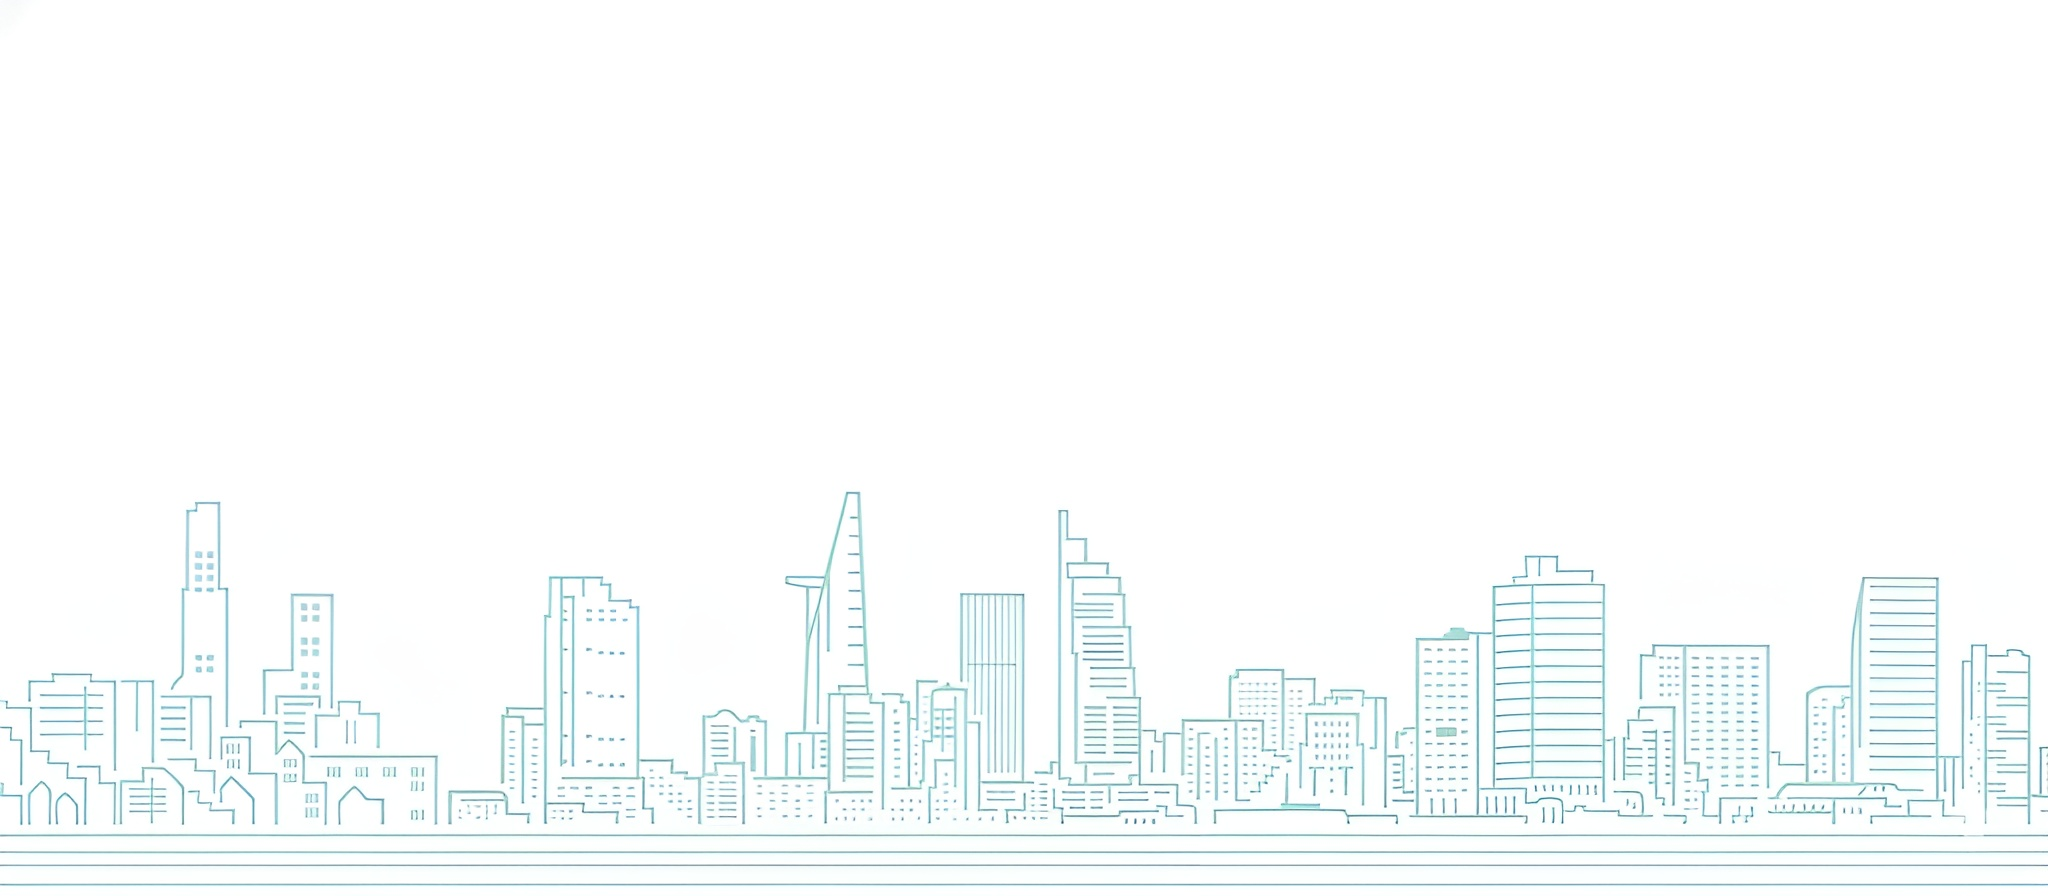
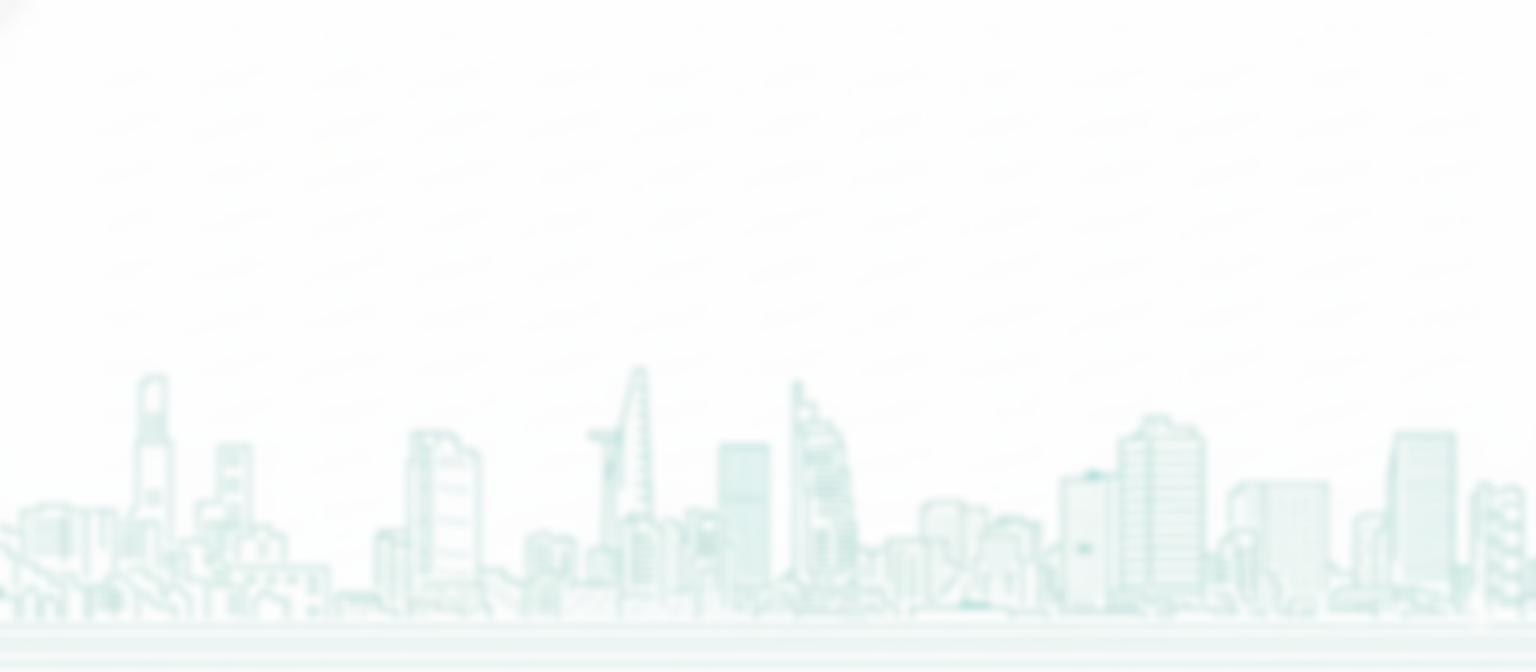
update code

Changed region(s): [[0.0, 0.5938, 1.0, 0.9688], [0.4062, 0.5625, 0.4375, 0.625], [0.0938, 0.625, 0.125, 0.6562]]

diff --git a/src/app/layouts/auth-layout/auth-layout.component.scss b/src/app/layouts/auth-layout/auth-layout.component.scss
@@ -3,7 +3,8 @@
   width: 100vw;
   height: 100vh;
   position: relative;
-  overflow: hidden; /* Master scroll control */
+  overflow: hidden;
+  background-color: var(--gray-100); /* Fallback color */
 }
 
 /* ==========================================================================
@@ -15,15 +16,10 @@
   z-index: 0;
   
   /* PERFORMANCE HINTS: */
-  /* 1. Isolate layout/paint from the rest of the app */
   contain: strict; 
-  /* 2. Force onto GPU layer */
-  transform: translateZ(0);
-  /* 3. Prevent any mouse events from causing recalc */
+  transform: translateZ(0); /* Force GPU layer */
   pointer-events: none;
-  
-  /* Fix for white edges on blur in some browsers by scaling slightly */
-  transform: scale(1.02); 
+  overflow: hidden;
 }
 
 .bg-image {
@@ -33,19 +29,20 @@
   object-position: center;
   display: block;
   
-  /* THE EXPENSIVE BLUR (Hardware Accelerated here) */
-  filter: blur(8px); 
+  /* OPTIMIZATION: Scale slightly to hide any potential edge artifacts */
+  transform: scale(1.02);
+  will-change: transform, opacity;
+
+  /* Pre-blurred image used, so no CSS filter needed here */
   
-  /* Tell browser this doesn't change often */
-  will-change: transform; 
+  /* Optional: Fade in image to mask loading jank */
+  animation: imageFadeIn 0.8s ease-out forwards;
 }
 
 .bg-overlay {
   position: absolute;
   inset: 0;
-  /* The static tint */
-  background-color: rgba(255, 255, 255, 0.1); 
-  /* Force overlay to stick to GPU layer too */
+  background-color: rgba(255, 255, 255, 0.2); 
   transform: translateZ(0); 
 }
 
@@ -54,7 +51,7 @@
    ========================================================================== */
 .auth-container {
   position: relative;
-  z-index: 1; /* Floating above the fixed background */
+  z-index: 1;
   width: 100%;
   height: 100%;
   
@@ -63,28 +60,21 @@
   align-items: center;
   padding: var(--spacing-lg);
   
-  /* Allow content scrolling if window is too short */
   overflow-y: auto; 
   overflow-x: hidden;
-  
-  /* Smooth scrolling */
   -webkit-overflow-scrolling: touch;
 }
 
 .auth-card-wrapper {
-  /* View Transition Optimization */
   view-transition-name: auth-card; 
   
   width: 100%;
   max-width: 420px;
   
-  /* --- NO BLUR HERE --- */
-  /* High opacity white for best readability and rendering speed */
-  background: rgba(255, 255, 255, 0.94); 
+  /* High opacity for text readability and rendering speed */
+  background: rgba(255, 255, 255, 0.6); 
   
   border-radius: var(--border-radius-lg);
-  
-  /* Static shadow, no spread expansion */
   box-shadow: 0 15px 35px rgba(0, 0, 0, 0.12);
   border: 1px solid rgba(255, 255, 255, 0.6);
   
@@ -92,7 +82,6 @@
   display: flex;
   flex-direction: column;
   
-  /* Isolate card repaints from container */
   contain: content; 
   will-change: transform, opacity;
 }
@@ -107,6 +96,8 @@
     object-fit: contain;
     margin-bottom: clamp(16px, 4vw, 24px);
     aspect-ratio: 1 / 1;
+    /* Prevent layout shift */
+    display: inline-block;
   }
 
   h2 {
@@ -129,18 +120,15 @@
    3. MOBILE OPTIMIZATIONS
    ========================================================================== */
 @media (max-width: 992px) {
-  /* Disable the background layer entirely on mobile to save battery/perf */
-  .auth-background-layer {
-    display: none !important;
-  }
+  /* Enabled background image on mobile (removed display: none) */
   
   :host {
-    background-color: var(--white);
+    background-color: transparent; /* Let image show through */
   }
 
   .auth-container {
     padding: 0;
-    align-items: flex-start; /* Top align for mobile scrolling */
+    align-items: flex-start; 
   }
 
   .auth-card-wrapper {
@@ -149,7 +137,11 @@
     border-radius: 0;
     border: none;
     box-shadow: none;
-    background: transparent;
+    
+    /* Removed 'background: transparent' so it uses the rgba(255,255,255,0.6) from desktop.
+       This ensures readability over the background image. 
+       If you want it clearer/more opaque on mobile, override it here. */
+       
     justify-content: center; 
     padding: clamp(20px, 5vw, 32px);
   }
@@ -174,4 +166,9 @@
 
 ::view-transition-new(auth-card) {
   animation: none; 
+}
+
+@keyframes imageFadeIn {
+  from { opacity: 0; }
+  to { opacity: 1; }
 }

diff --git a/src/app/login/login.component.ts b/src/app/login/login.component.ts
@@ -1,4 +1,4 @@
-import { Component } from '@angular/core';
+import { Component, ChangeDetectionStrategy, ChangeDetectorRef, inject } from '@angular/core';
 import { FormsModule } from '@angular/forms';
 import { CommonModule, NgClass } from '@angular/common';
 import { AuthService } from '../services/auth.service';
@@ -17,9 +17,12 @@ import { ConfirmationModalComponent } from '../components/confirmation-modal/con
     RouterLink
   ],
   templateUrl: './login.component.html',
-  styleUrl: './login.component.scss'
+  styleUrl: './login.component.scss',
+  changeDetection: ChangeDetectionStrategy.OnPush // <--- 1. Enable OnPush
 })
 export class LoginComponent {
+  // Inject ChangeDetectorRef
+  private cd = inject(ChangeDetectorRef); 
 
   public isLoading = false;
   public credentials = {
@@ -41,12 +44,14 @@ export class LoginComponent {
   onSubmit() {
     if (this.isLoading) return;
     this.isLoading = true;
+    // No need to markForCheck here because the event (submit) triggers detection automatically
 
     this.authService.login(this.credentials).subscribe({
       next: (response) => {
         this.isLoading = false;
         this.toastService.showSuccess('Đăng nhập thành công!');
         this.router.navigate(['/app']);
+        this.cd.markForCheck(); // <--- 2. Update view after async
       },
       error: (err: any) => {
         this.isLoading = false;
@@ -58,12 +63,10 @@ export class LoginComponent {
             size: 'sm',
             disableBackdropClose: true,
             context: {
-              layout: 'center', // Explicitly center this alert
-
-              title: '', // Keep empty if you just want the icon
+              layout: 'center',
+              title: '',
               icon: 'fas fa-user-shield',
               iconColor: 'var(--color-danger)',
-
               message: `${err.message}\n\nVui lòng liên hệ bộ phận IT qua hotline:\n☎ 1108 / 1109 để mở khóa.`,
               confirmText: 'Đã hiểu',
               cancelText: ''
@@ -76,6 +79,7 @@ export class LoginComponent {
         }
 
         console.error('Login failed', err);
+        this.cd.markForCheck(); // <--- 3. Update view after async error
       }
     });
   }
@@ -83,5 +87,6 @@ export class LoginComponent {
   togglePasswordVisibility(): void {
     this.passwordVisible = !this.passwordVisible;
     this.passwordFieldType = this.passwordVisible ? 'text' : 'password';
+    // No markForCheck needed here as it's a direct DOM event
   }
 }

diff --git a/src/app/layouts/auth-layout/auth-layout.component.ts b/src/app/layouts/auth-layout/auth-layout.component.ts
@@ -1,15 +1,16 @@
-import { Component } from '@angular/core';
+import { Component, ChangeDetectionStrategy } from '@angular/core';
 import { CommonModule } from '@angular/common';
-import { RouterOutlet } from '@angular/router'; // <--- IMPORT THIS
+import { RouterOutlet } from '@angular/router';
 
 @Component({
   selector: 'app-auth-layout',
   standalone: true,
   imports: [
     CommonModule,
-    RouterOutlet // <--- ADD THIS
+    RouterOutlet
   ],
   templateUrl: './auth-layout.component.html',
-  styleUrls: ['./auth-layout.component.scss']
+  styleUrls: ['./auth-layout.component.scss'],
+  changeDetection: ChangeDetectionStrategy.OnPush // <--- Added this
 })
 export class AuthLayoutComponent {}

diff --git a/src/app/forgot-password/forgot-password.component.ts b/src/app/forgot-password/forgot-password.component.ts
@@ -1,4 +1,4 @@
-import { Component } from '@angular/core';
+import { Component, ChangeDetectionStrategy } from '@angular/core';
 import { CommonModule } from '@angular/common';
 import { Router, RouterLink } from '@angular/router';
 
@@ -10,7 +10,8 @@ import { Router, RouterLink } from '@angular/router';
     RouterLink
   ],
   templateUrl: './forgot-password.component.html',
-  styleUrl: './forgot-password.component.scss'
+  styleUrl: './forgot-password.component.scss',
+  changeDetection: ChangeDetectionStrategy.OnPush // <--- Added this
 })
 export class ForgotPasswordComponent {
 
